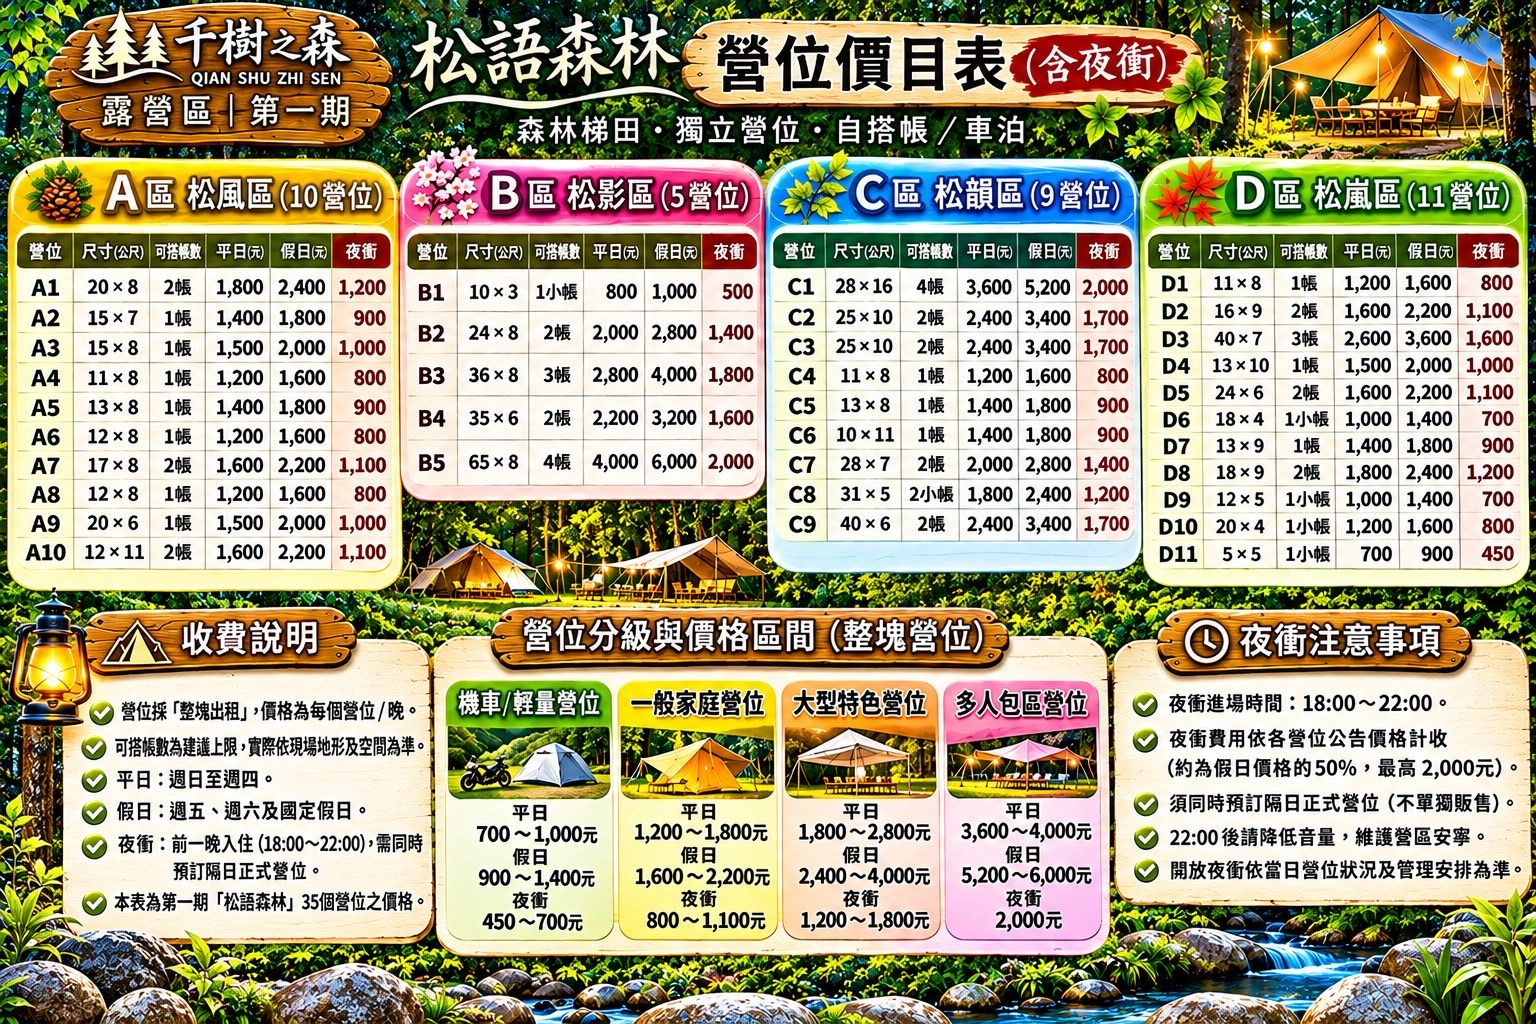
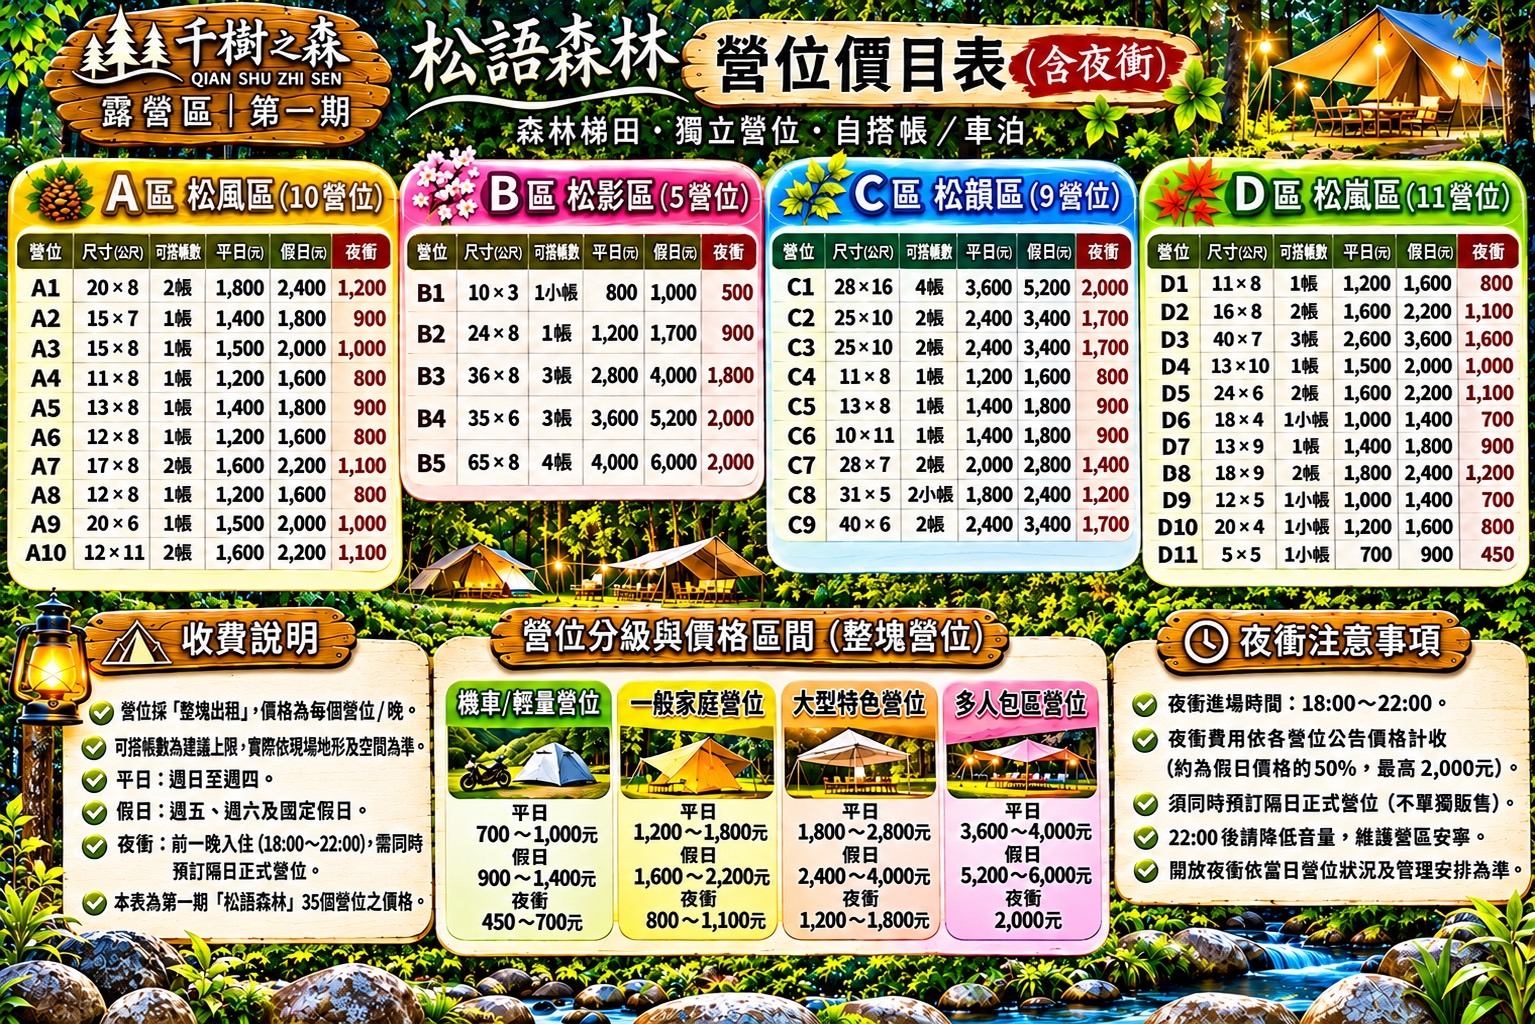
改價格

Changed region(s): [[0.0, 0.0, 1.0, 1.0]]

diff --git a/js/booking.js b/js/booking.js
@@ -2,7 +2,7 @@
  依營位預約（林大哥規則）：
  - 客人先選「入住日 → 退房日」（可連住，連住不打折），再點地圖或清單選一個營位。
  - 價格是「每個營位／每晚」，整塊出租，不限帳數、不看人數；平日（週日～週四）與假日（週五、週六、國定假日）不同價。
- - 夜衝（前一晚 18:00～22:00 進場）可勾選，必須同時預訂隔日正式營位；夜衝價 = 夜衝那一晚當天價格的 5 折。
+ - 夜衝（前一晚 18:00～22:00 進場）可勾選，必須同時預訂隔日正式營位；夜衝價 = 夜衝那一晚當天價格的 5 折（不超過該營位公告夜衝價、最高 2,000）。
  - 價格資料與計價公式在 lib/sites.js、lib/holidays.js、lib/pricing.js，
    前端（這支）與後端（api/create-booking.js）共用同一份，金額不會對不上；改價格只要改 lib/sites.js。
  - 空位來自 /api/get-availability（Supabase booking_nights 表的真實資料）。
@@ -590,8 +590,8 @@ document.addEventListener("DOMContentLoaded", function () {
       var ePrice = P.earlyPrice(s, eDate);
       var eHoliday = P.dayTypeOf(eDate) === "holiday";
       note = t(
-        "夜衝（前一晚 18:00～22:00 進場）＋" + money(ePrice) + "，是前一晚" + (eHoliday ? "假日價" : "平日價") + "的 5 折；須同時預訂隔日正式營位，22:00 後請降低音量",
-        "Early arrival (arrive 18:00–22:00 the night before) +" + money(ePrice) + " — 50% off that night's " + (eHoliday ? "holiday" : "weekday") + " rate; must be combined with the next day's stay; quiet after 22:00"
+        "夜衝（前一晚 18:00～22:00 進場）＋" + money(ePrice) + "，約為前一晚" + (eHoliday ? "假日價" : "平日價") + "的 5 折（最高 2,000 元）；須同時預訂隔日正式營位，22:00 後請降低音量",
+        "Early arrival (arrive 18:00–22:00 the night before) +" + money(ePrice) + " — about 50% of that night's " + (eHoliday ? "holiday" : "weekday") + " rate (max NT$2,000); must be combined with the next day's stay; quiet after 22:00"
       );
     }
     earlyBox.disabled = !can;
@@ -610,7 +610,7 @@ document.addEventListener("DOMContentLoaded", function () {
     } else if (!checkIn || !checkOut) {
       html =
         '<div class="quote-title">' + s.id + t("　營位價格", " rates") + "</div>" +
-        t("平日 ", "Weekday ") + money(s.weekday) + "　" + t("假日 ", "Holiday ") + money(s.holiday) + "　" + t("夜衝 ", "Early ") + t("當晚價格 5 折", "50% off that night") +
+        t("平日 ", "Weekday ") + money(s.weekday) + "　" + t("假日 ", "Holiday ") + money(s.holiday) + "　" + t("夜衝 ", "Early ") + t("當晚價格約 5 折，最高 2,000", "about 50% of that night, max 2,000") +
         "<br>" + t("請在左邊選擇入住日與退房日。", "Select your check-in and check-out dates on the left.");
     } else {
       var free = siteFree(s.id);
@@ -631,7 +631,7 @@ document.addEventListener("DOMContentLoaded", function () {
             "</span><span>" + money(n.price) + "</span></div>";
         });
         if (q.early) {
-          html += '<div class="quote-row"><span>' + dateLabel(q.early.date) + "　" + t("加訂前一晚夜衝（18:00～22:00 進場，當晚價格 5 折）", "Early arrival the night before (18:00–22:00, 50% off)") + "</span><span>" + money(q.early.price) + "</span></div>";
+          html += '<div class="quote-row"><span>' + dateLabel(q.early.date) + "　" + t("加訂前一晚夜衝（18:00～22:00 進場，當晚價格約 5 折，最高 2,000 元）", "Early arrival the night before (18:00–22:00, about 50% off, max NT$2,000)") + "</span><span>" + money(q.early.price) + "</span></div>";
         }
         if (checkOut > P.HOLIDAYS_COVERED_THROUGH) {
           var y = P.HOLIDAYS_COVERED_THROUGH.slice(0, 4);

diff --git a/lib/sites.js b/lib/sites.js
@@ -3,7 +3,8 @@
 // 價格是「每個營位／每晚」，整塊營位出租：不管搭幾帳、幾個人，同一個營位同一晚價格都一樣。
 //   weekday = 平日價（週日～週四，國定假日除外）
 //   holiday = 假日價（週五、週六、國定假日）
-//   early   = （已不使用）夜衝價現在是「夜衝那一晚當天價格的 5 折」，由 lib/pricing.js 的 earlyPrice() 計算
+//   early   = 價目表公告的夜衝價（假日夜衝價，也是夜衝的上限）。實際夜衝價由 lib/pricing.js 的 earlyPrice() 算：
+//             夜衝那一晚當天價格的 5 折，但不超過這個 early 值，也不超過 2,000 元（林大哥決定：夜衝最高 2,000）
 // maxTents = 建議可搭帳數上限；small = true 代表該營位只適合小帳（表上標「小帳」）。
 // 這支檔案前端（js/booking.js）和後端（api/）共用，改價格只要改這裡。
 
@@ -26,9 +27,9 @@ export const SITES = [
   { id: "A9", zone: "A", length: 20, width: 6, maxTents: 1, small: false, weekday: 1500, holiday: 2000, early: 1000 },
   { id: "A10", zone: "A", length: 12, width: 11, maxTents: 2, small: false, weekday: 1600, holiday: 2200, early: 1100 },
   { id: "B1", zone: "B", length: 10, width: 3, maxTents: 1, small: true, weekday: 800, holiday: 1000, early: 500 },
-  { id: "B2", zone: "B", length: 24, width: 8, maxTents: 2, small: false, weekday: 2000, holiday: 2800, early: 1400 },
+  { id: "B2", zone: "B", length: 24, width: 8, maxTents: 2, small: false, weekday: 1200, holiday: 1700, early: 900 },
   { id: "B3", zone: "B", length: 36, width: 8, maxTents: 3, small: false, weekday: 2800, holiday: 4000, early: 1800 },
-  { id: "B4", zone: "B", length: 35, width: 6, maxTents: 2, small: false, weekday: 2200, holiday: 3200, early: 1600 },
+  { id: "B4", zone: "B", length: 35, width: 6, maxTents: 2, small: false, weekday: 3600, holiday: 5200, early: 2000 },
   { id: "B5", zone: "B", length: 65, width: 8, maxTents: 4, small: false, weekday: 4000, holiday: 6000, early: 2000 },
   { id: "C1", zone: "C", length: 28, width: 16, maxTents: 4, small: false, weekday: 3600, holiday: 5200, early: 2000 },
   { id: "C2", zone: "C", length: 25, width: 10, maxTents: 2, small: false, weekday: 2400, holiday: 3400, early: 1700 },

diff --git a/info.html b/info.html
@@ -206,8 +206,8 @@
     <div class="faq-item">
       <h3><span class="lang-zh">夜衝（前一晚入場）</span><span class="lang-en" hidden>Early arrival (evening before)</span></h3>
       <p>
-        <span class="lang-zh">可加訂夜衝，前一晚 18:00～22:00 進場，價格為前一晚當天價格的 5 折（平日價的 5 折或假日價的 5 折）。過年期間（2027/2/4～2/10）不開放夜衝，且每晚價格加 3 成。</span>
-        <span class="lang-en" hidden>Add an early arrival to check in the evening before, 18:00–22:00, at 50% of that night's price (weekday or holiday rate). Not available during Lunar New Year (2027/2/4–2/10), when nightly prices are 30% higher.</span>
+        <span class="lang-zh">可加訂夜衝，前一晚 18:00～22:00 進場，價格約為前一晚當天價格的 5 折（平日價的 5 折或假日價的 5 折），最高 2,000 元。過年期間（2027/2/4～2/10）不開放夜衝，且每晚價格加 3 成。</span>
+        <span class="lang-en" hidden>Add an early arrival to check in the evening before, 18:00–22:00, at about 50% of that night's price (weekday or holiday rate), up to NT$2,000. Not available during Lunar New Year (2027/2/4–2/10), when nightly prices are 30% higher.</span>
       </p>
     </div>
     <div class="faq-item">

diff --git a/lib/pricing.js b/lib/pricing.js
@@ -73,11 +73,16 @@ export function earlyBlockReason(iso) {
 }
 
 export const EARLY_RATE = 0.5;
+// 夜衝最高 2,000 元（林大哥決定；價目表公告「約假日價格的 50%，最高 2,000 元」）
+export const EARLY_CAP = 2000;
 
-// 夜衝價 = 夜衝那一晚當天價格 × 5 折（平日用平日價、假日用假日價）
+// 夜衝價 = 夜衝那一晚當天價格 × 5 折（平日用平日價、假日用假日價），
+// 但不超過該營位價目表公告的夜衝價（site.early），也不超過 EARLY_CAP（2,000）
 export function earlyPrice(site, earlyDate) {
   const base = dayTypeOf(earlyDate) === "holiday" ? site.holiday : site.weekday;
-  return Math.round(base * EARLY_RATE);
+  // 假日夜：直接用價目表公告的夜衝價（和公告圖一模一樣）；平日夜：平日價的 5 折（同樣不超過公告價與上限）
+  if (dayTypeOf(earlyDate) === "holiday") return Math.min(site.early, EARLY_CAP);
+  return Math.min(Math.round(base * EARLY_RATE), site.early, EARLY_CAP);
 }
 
 export function isEarlyAllowed(iso) {
